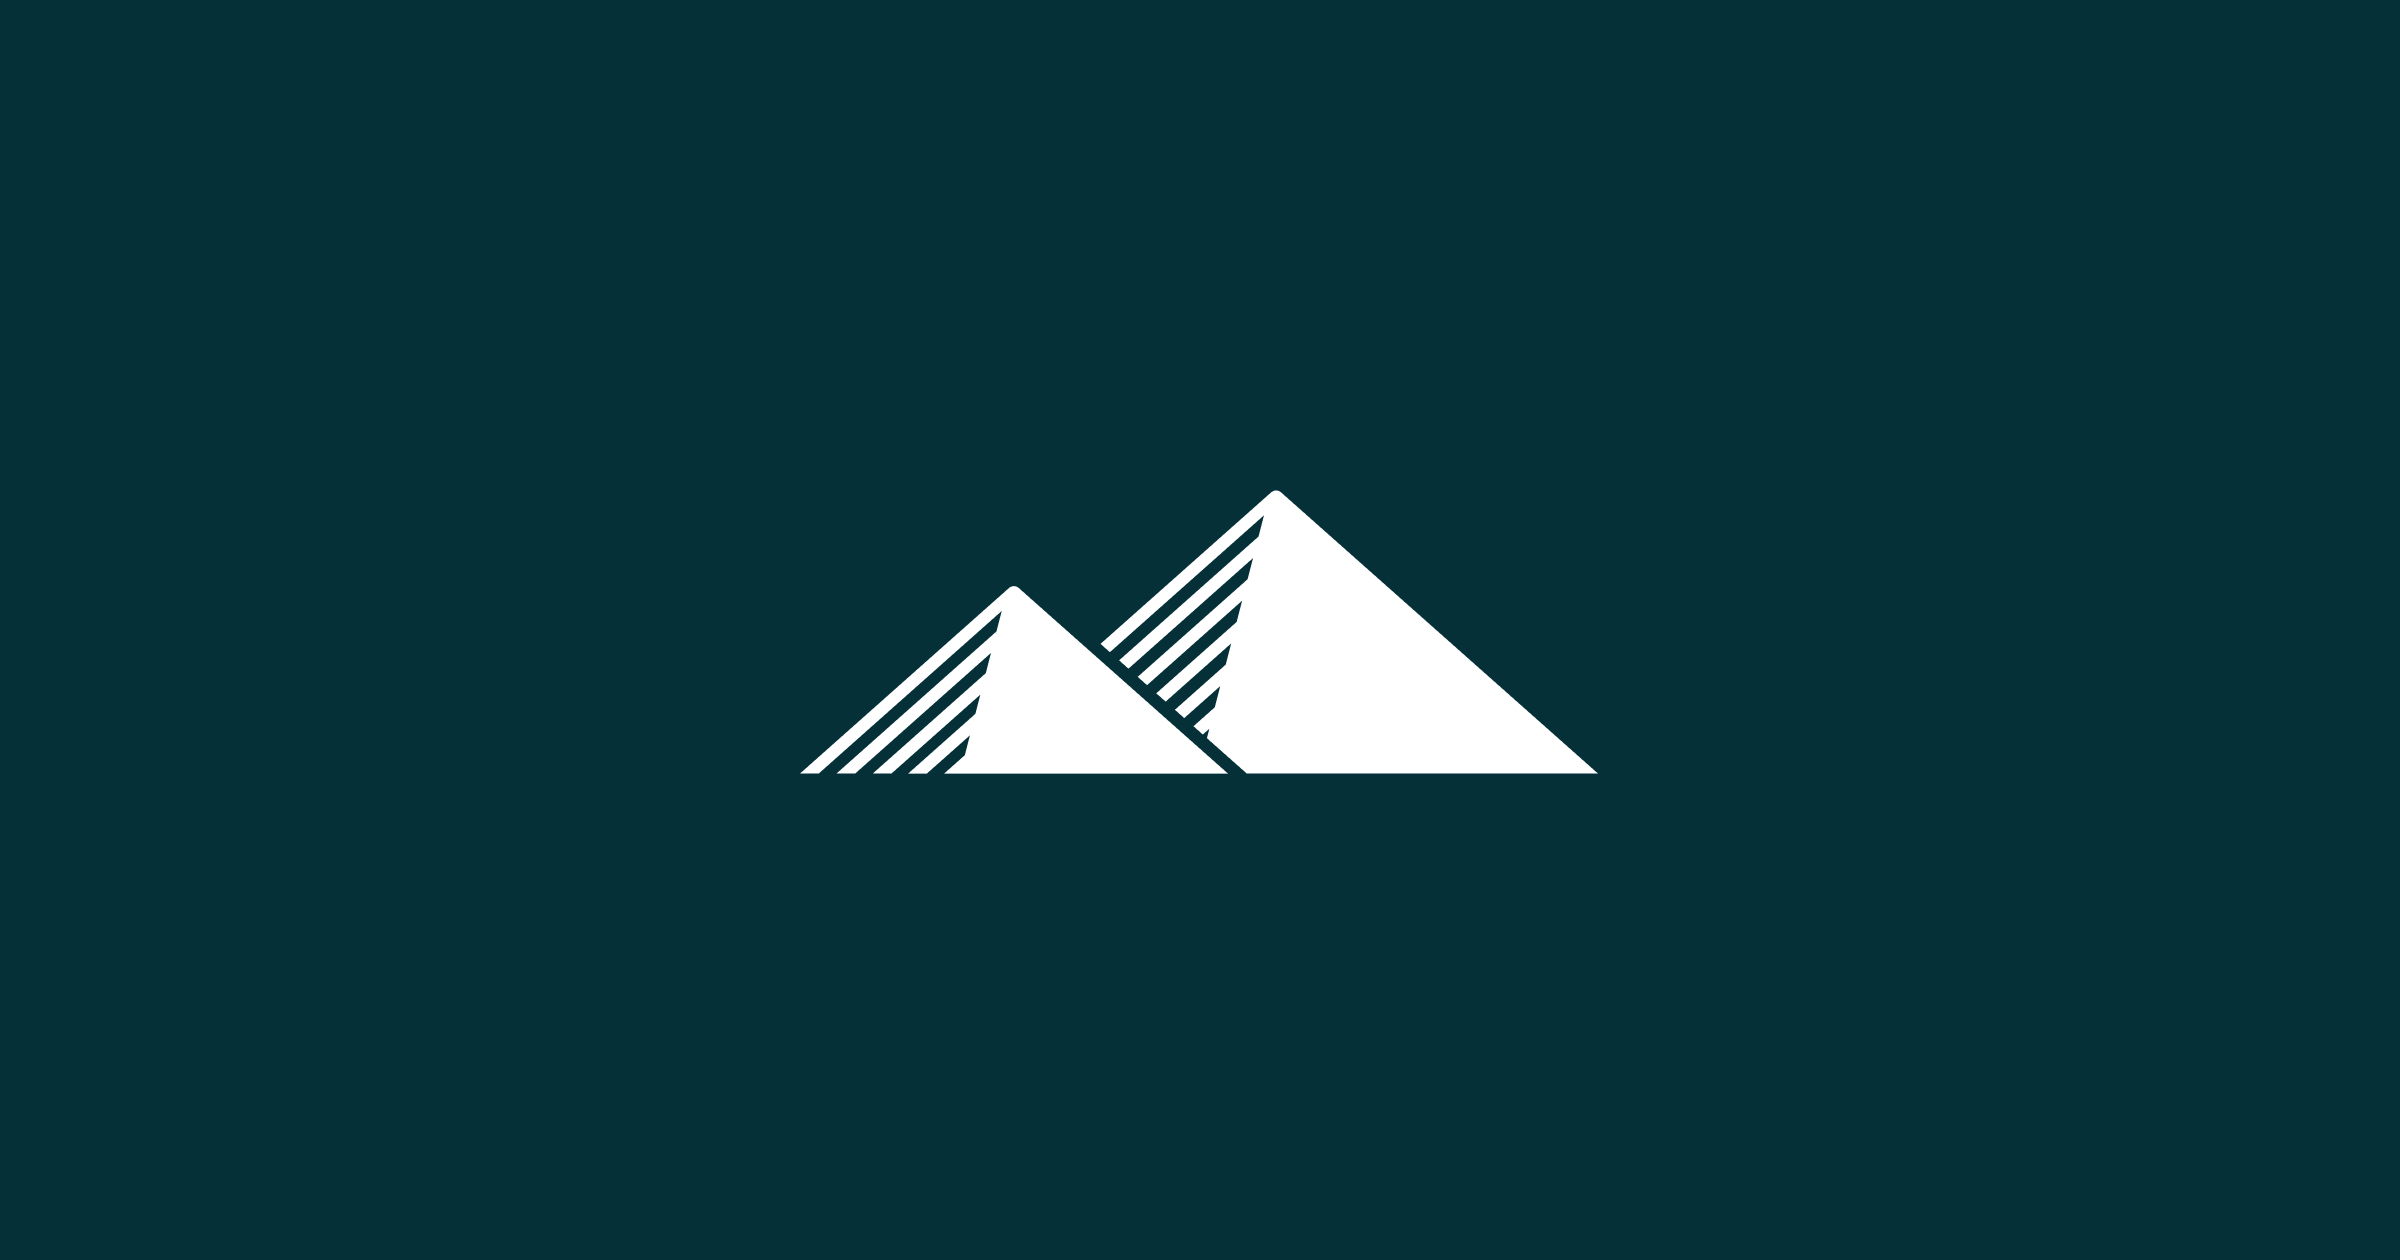
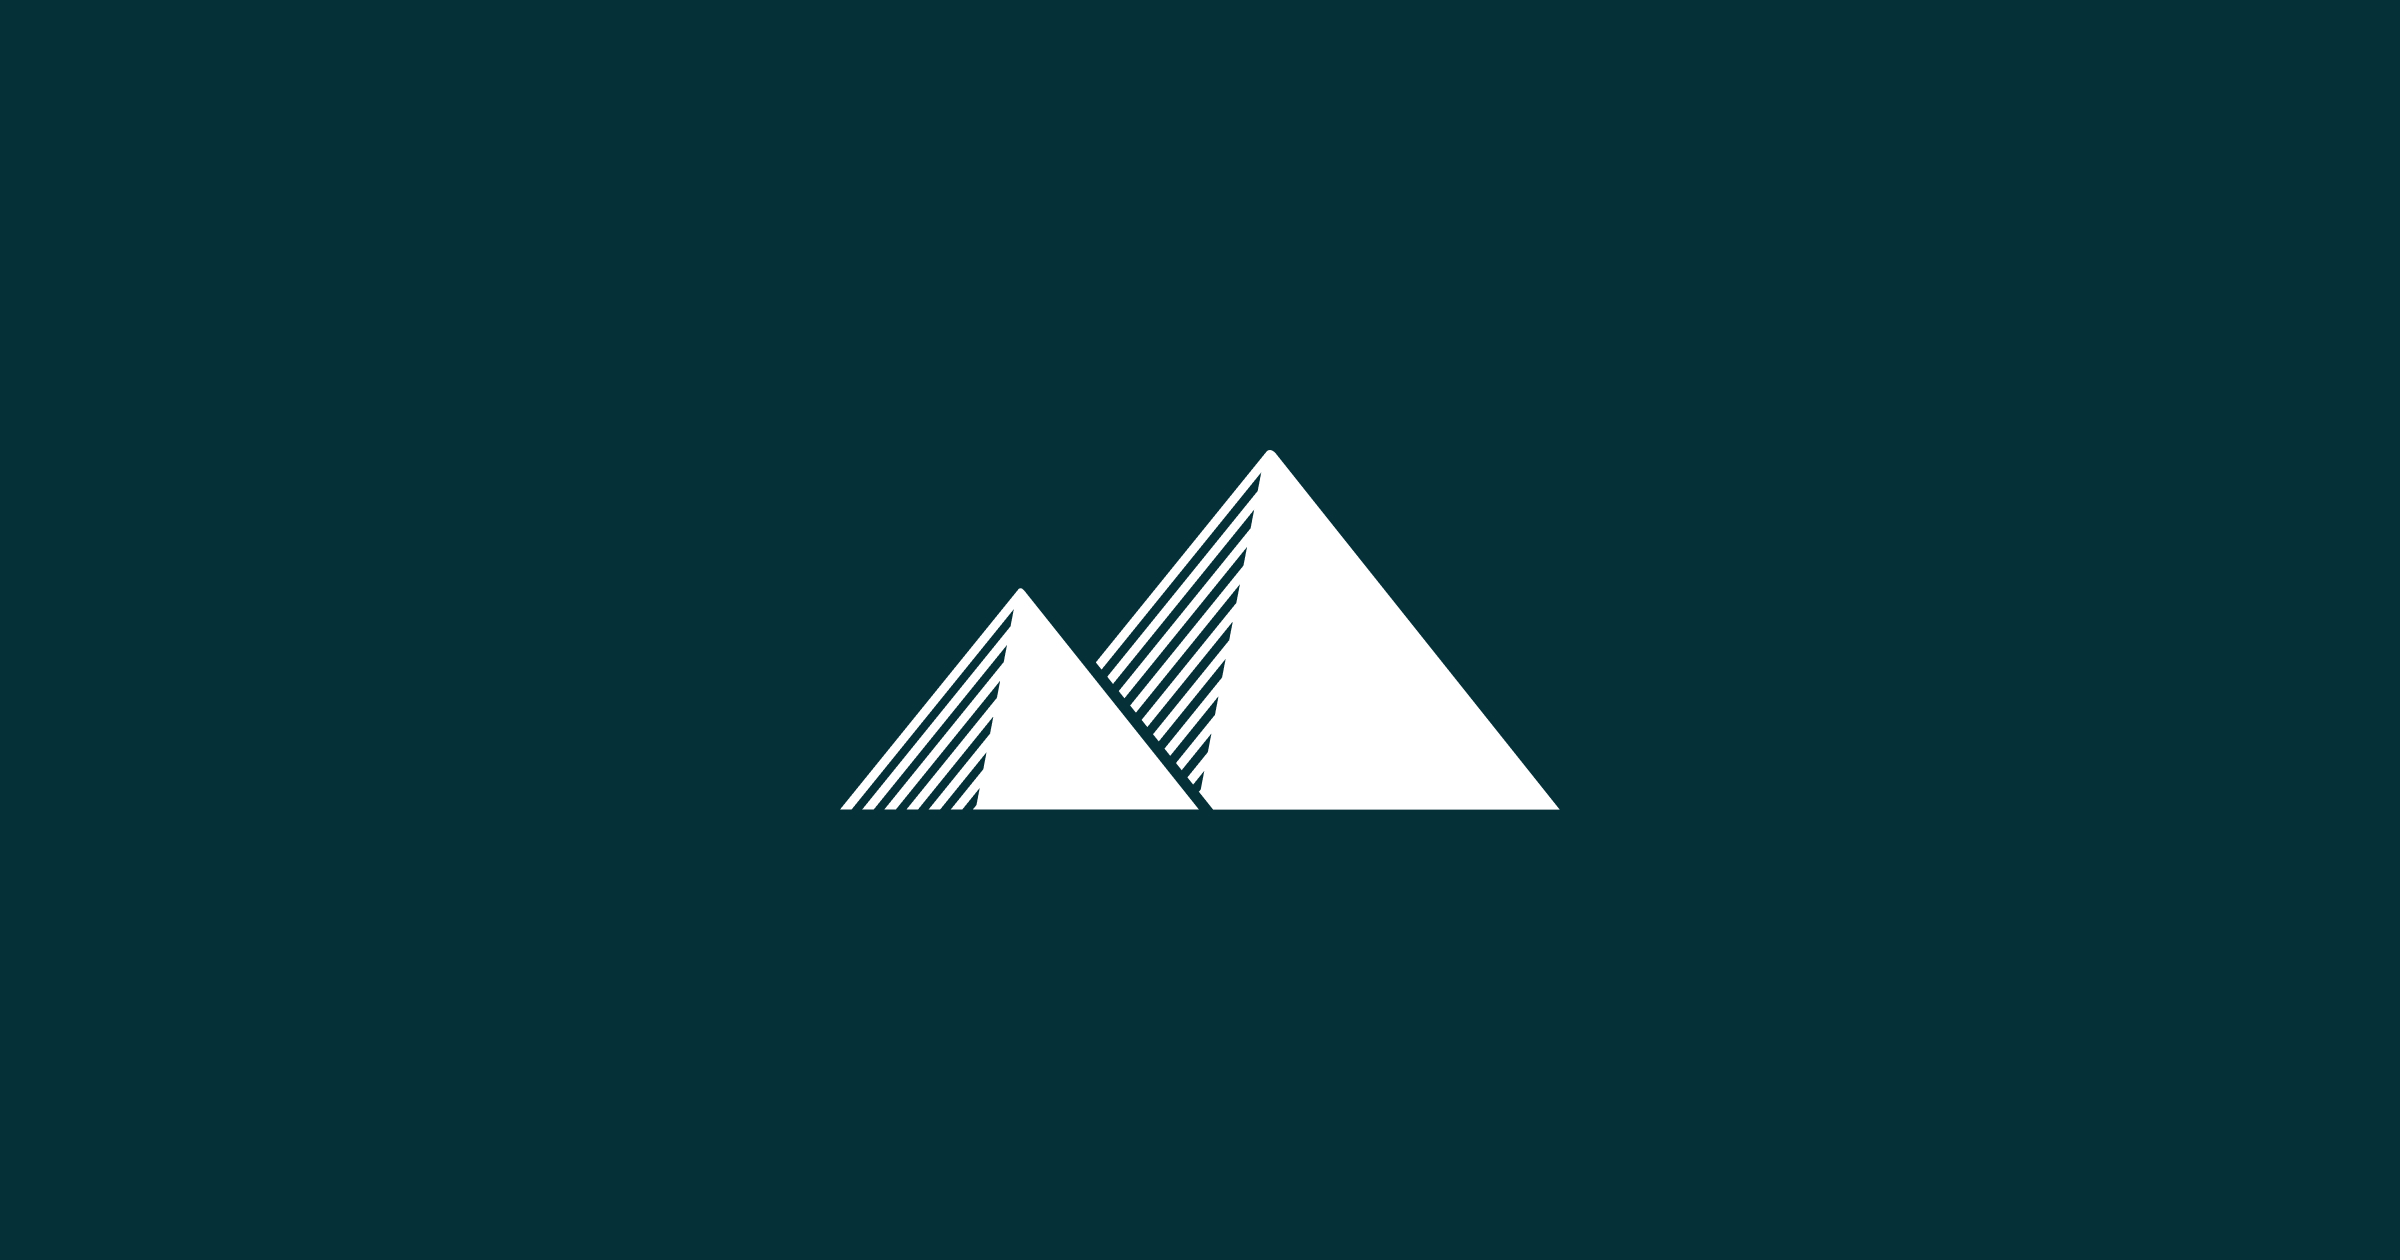
画像とロゴのサイズを変更しました

Changed region(s): [[0.3438, 0.3714, 0.6562, 0.65], [0.5625, 0.4643, 0.5938, 0.4952]]

diff --git a/src/app/styles/globals.scss b/src/app/styles/globals.scss
@@ -59,10 +59,10 @@ body{
   }
 }
 .logo{
-  width: 149px;
+  width: 146px;
   height: auto;
   @media screen and (min-width: 768px){
-    width: 240px;
+    width: 237px;
     margin-inline-end: auto;
     img{
       width: 100%;
@@ -319,11 +319,11 @@ body{
   }
   .logo{
     margin-inline: auto;
-    width: 210px;
+    width: 203px;
     margin-block-end: 60px;
     @media screen and (min-width: 768px) {
       margin-inline: 0 auto;
-      width: 260px;
+      width: 253px;
     }
   }
   .copyright{

diff --git a/src/app/_component/Header.tsx b/src/app/_component/Header.tsx
@@ -13,8 +13,8 @@ export default function Header() {
           <Logo>
             <Image
               src="/images/mobile/common/header/logo.svg"
-              width={149}
-              height={11}
+              width={140}
+              height={12}
               alt={process.env.SITE_TITLE ?? ""}
             />
           </Logo>

diff --git a/src/app/_component/Footer.tsx b/src/app/_component/Footer.tsx
@@ -10,8 +10,8 @@ export default function Footer() {
           <Link href="/">
             <Image
               src="/images/mobile/common/footer/logo.svg"
-              width={210}
-              height={16}
+              width={203}
+              height={18}
               alt="SUBMONTANE STUDIO"
             />
           </Link>
